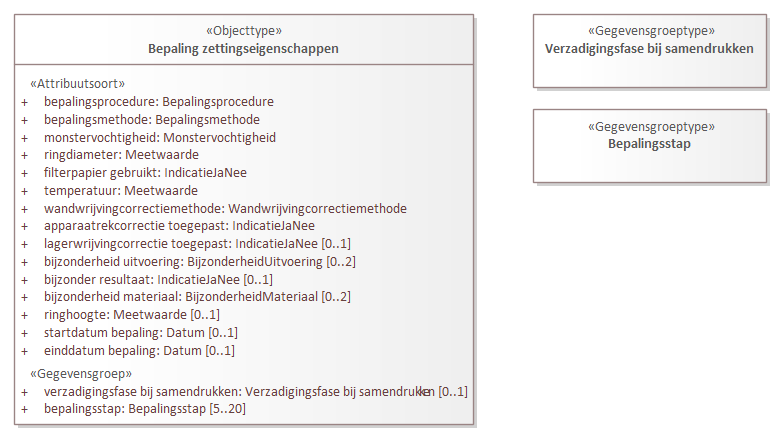
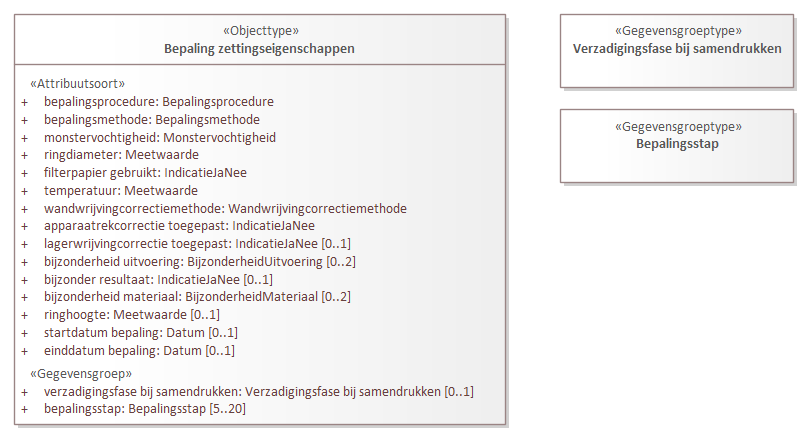
Conceptualmodel-GeotechnischbooronderzoekBHR-GT-2.2-1-20220901-20251028-200825

diff --git a/data/BHR-GT-cat.msword.html b/data/BHR-GT-cat.msword.html
@@ -6,7 +6,7 @@
                     table.list tbody tr th {background-color: #d3d3d3;}
                     table.list tbody tr th,
                     table.list tbody tr td {border: 1px solid black;}
-                </style></head><body><p>Conceptual model/Geotechnisch booronderzoek (BHR-GT)/20220901</p><p>Imvertor: 4.4.0</p><p>Model release: Conceptualmodel-GeotechnischbooronderzoekBHR-GT-2.2-1-20220901-20251028-192604</p><hr><section><h1>Artikel 1 Definitie van registratieobject, entiteiten en attributen</h1><section><h2>Registratieobject</h2><section id="global_class_Model_Registratieobject">
+                </style></head><body><p>Conceptual model/Geotechnisch booronderzoek (BHR-GT)/20220901</p><p>Imvertor: 4.4.0</p><p>Model release: Conceptualmodel-GeotechnischbooronderzoekBHR-GT-2.2-1-20220901-20251028-200825</p><hr><section><h1>Artikel 1 Definitie van registratieobject, entiteiten en attributen</h1><section><h2>Registratieobject</h2><section id="global_class_Model_Registratieobject">
                <table style="width: 100%;"><colgroup style="width: 30%;"></colgroup><colgroup style="width: 70%;"></colgroup><tbody><tr><th>Naam</th><td>Booronderzoek</td></tr><tr><th>Code</th><td>BHR</td></tr><tr><th>Definitie</th><td>
                         <p>Het geheel van gegevens dat betrekking heeft op een booronderzoek dat vanuit een bepaalde opdracht is uitgevoerd door op een bepaald moment op een bepaalde locatie in Nederland of zijn Exclusieve Economische Zone een boring uit te voeren en de monsters die daarmee uit de ondergrond zijn verkregen te beschrijven en/of te onderzoeken en/of in het boorgat zelf metingen aan de ondergrond uit te voeren.</p>
                      </td></tr><tr><th>Populatie</th><td>
@@ -2509,7 +2509,7 @@ Het attribuut mag niet aanwezig zijn in alle andere gevallen.</p>
                         </td></tr><tr><th>Toelichting</th><td>
                            <p>De zandmediaan wordt bepaald wanneer de primaire fractie zand is. Tenminste wordt een indeling van grof, middelgrof of fijn gemaakt, bij voorkeur worden de klassen middelgrof en fijn nauwkeuriger ingedeeld.</p>
                         </td></tr></tbody></table>
-               </section></section><section id="global_class_Model_Bepalingzettingseigenschappen"><h3>   Bepaling zettingseigenschappen</h3><div class="imageinfo "><img id="EAID_50F594D4_51DB_4eb9_9E29_7C12AB4AF960" src="Images/EAID_50F594D4_51DB_4eb9_9E29_7C12AB4AF960.png" usemap="#imagemap-EAID_50F594D4_51DB_4eb9_9E29_7C12AB4AF960" alt="Diagram: Bepaling zettingseigenschappen - detail"><map name="imagemap-EAID_50F594D4_51DB_4eb9_9E29_7C12AB4AF960"><area shape="rect" alt="Verzadigingsfase bij samendrukken" coords="533,14,767,88" href="#global_class_Model_Verzadigingsfasebijsamendrukken"><area shape="rect" alt="Bepalingsstap" coords="533,109,767,183" href="#global_class_Model_Bepalingsstap"><area shape="rect" alt="Bepaling zettingseigenschappen" coords="14,14,474,425" href="#global_class_Model_Bepalingzettingseigenschappen"></map></div><table style="width: 100%;"><colgroup style="width: 30%;"></colgroup><colgroup style="width: 70%;"></colgroup><tbody><tr><th>Type gegeven</th><td>Entiteit</td></tr><tr><th>Definitie</th><td>
+               </section></section><section id="global_class_Model_Bepalingzettingseigenschappen"><h3>   Bepaling zettingseigenschappen</h3><div class="imageinfo "><img id="EAID_50F594D4_51DB_4eb9_9E29_7C12AB4AF960" src="Images/EAID_50F594D4_51DB_4eb9_9E29_7C12AB4AF960.png" usemap="#imagemap-EAID_50F594D4_51DB_4eb9_9E29_7C12AB4AF960" alt="Diagram: Bepaling zettingseigenschappen - detail"><map name="imagemap-EAID_50F594D4_51DB_4eb9_9E29_7C12AB4AF960"><area shape="rect" alt="Verzadigingsfase bij samendrukken" coords="560,14,794,88" href="#global_class_Model_Verzadigingsfasebijsamendrukken"><area shape="rect" alt="Bepalingsstap" coords="560,109,794,183" href="#global_class_Model_Bepalingsstap"><area shape="rect" alt="Bepaling zettingseigenschappen" coords="14,14,506,425" href="#global_class_Model_Bepalingzettingseigenschappen"></map></div><table style="width: 100%;"><colgroup style="width: 30%;"></colgroup><colgroup style="width: 70%;"></colgroup><tbody><tr><th>Type gegeven</th><td>Entiteit</td></tr><tr><th>Definitie</th><td>
                         <p>Het volgens een bepaalde methode bepalen van de zettingseigenschappen van grond.</p>
                      </td></tr><tr><th>Regels</th><td>
                         <p>De entiteit moet aanwezig zijn wanneer de waarde van het attribuut <em>type analyse</em> van de entiteit <em>Onderzocht interval</em> gelijk is aan <em>zetting</em> of <em>zettingWaterdoorlatendheid</em>.<br clear="none">
@@ -2616,7 +2616,7 @@ Voor het juiste gebruik van de gegevens is het van belang te weten of het meetre
                         2.2</td></tr><tr><th>&nbsp;&nbsp;Eenheid</th><td>mm (millimeter)</td></tr><tr><th>&nbsp;&nbsp;Waardebereik</th><td> vanaf 0</td></tr><tr><th>Regels</th><td>
                            <p>Het attribuut moet aanwezig zijn wanneer de waarde van het attribuut <em>analyseprocedure</em> van de entiteit <em>Boormonsteranalyse</em> gelijk is aan <em>NEN8992v2025</em>.</p>
                         </td></tr><tr><th>Toelichting</th><td>
-                           <p>Bij belastinggestuurd samendrukken is de hoogte van het proefstuk gelijk aan de ringhoogte en die is ca. 20 mm. Bij snelheidgestuurd samendrukken wordt de hoogte van het proefstuk na afloop van de verzadigingsfase bepaald.</p>
+                           <p>Voor de ringhoogte wordt standaard een hoogte van 20 mm aangehouden met een marge van +/- 2 mm.</p>
                         </td></tr></tbody></table>
                </section><section id="detail_attribute_Model_Bepalingzettingseigenschappen_startdatumbepaling"><h4>  startdatum bepaling</h4>
                   <table style="width: 100%;"><colgroup style="width: 30%;"></colgroup><colgroup style="width: 70%;"></colgroup><tbody><tr><th>Type gegeven</th><td>Attribuut van Bepaling zettingseigenschappen</td></tr><tr><th>Definitie</th><td>

diff --git a/data/BHR-GT-cat.respec.html b/data/BHR-GT-cat.respec.html
@@ -2501,7 +2501,7 @@ Het attribuut mag niet aanwezig zijn in alle andere gevallen.</p>
                         </td></tr><tr><th>Toelichting</th><td>
                            <p>De zandmediaan wordt bepaald wanneer de primaire fractie zand is. Tenminste wordt een indeling van grof, middelgrof of fijn gemaakt, bij voorkeur worden de klassen middelgrof en fijn nauwkeuriger ingedeeld.</p>
                         </td></tr></tbody></table>
-               </section></section><section id="global_class_Model_Bepalingzettingseigenschappen"><h3>   Bepaling zettingseigenschappen</h3><div class="imageinfo "><img id="EAID_50F594D4_51DB_4eb9_9E29_7C12AB4AF960" src="data/Images/EAID_50F594D4_51DB_4eb9_9E29_7C12AB4AF960.png" usemap="#imagemap-EAID_50F594D4_51DB_4eb9_9E29_7C12AB4AF960" alt="Diagram: Bepaling zettingseigenschappen - detail"><map name="imagemap-EAID_50F594D4_51DB_4eb9_9E29_7C12AB4AF960"><area shape="rect" alt="Verzadigingsfase bij samendrukken" coords="533,14,767,88" href="#global_class_Model_Verzadigingsfasebijsamendrukken"><area shape="rect" alt="Bepalingsstap" coords="533,109,767,183" href="#global_class_Model_Bepalingsstap"><area shape="rect" alt="Bepaling zettingseigenschappen" coords="14,14,474,425" href="#global_class_Model_Bepalingzettingseigenschappen"></map></div><table style="width: 100%;"><colgroup style="width: 30%;"></colgroup><colgroup style="width: 70%;"></colgroup><tbody><tr><th>Type gegeven</th><td>Entiteit</td></tr><tr><th>Definitie</th><td>
+               </section></section><section id="global_class_Model_Bepalingzettingseigenschappen"><h3>   Bepaling zettingseigenschappen</h3><div class="imageinfo "><img id="EAID_50F594D4_51DB_4eb9_9E29_7C12AB4AF960" src="data/Images/EAID_50F594D4_51DB_4eb9_9E29_7C12AB4AF960.png" usemap="#imagemap-EAID_50F594D4_51DB_4eb9_9E29_7C12AB4AF960" alt="Diagram: Bepaling zettingseigenschappen - detail"><map name="imagemap-EAID_50F594D4_51DB_4eb9_9E29_7C12AB4AF960"><area shape="rect" alt="Verzadigingsfase bij samendrukken" coords="560,14,794,88" href="#global_class_Model_Verzadigingsfasebijsamendrukken"><area shape="rect" alt="Bepalingsstap" coords="560,109,794,183" href="#global_class_Model_Bepalingsstap"><area shape="rect" alt="Bepaling zettingseigenschappen" coords="14,14,506,425" href="#global_class_Model_Bepalingzettingseigenschappen"></map></div><table style="width: 100%;"><colgroup style="width: 30%;"></colgroup><colgroup style="width: 70%;"></colgroup><tbody><tr><th>Type gegeven</th><td>Entiteit</td></tr><tr><th>Definitie</th><td>
                         <p>Het volgens een bepaalde methode bepalen van de zettingseigenschappen van grond.</p>
                      </td></tr><tr><th>Regels</th><td>
                         <p>De entiteit moet aanwezig zijn wanneer de waarde van het attribuut <em>type analyse</em> van de entiteit <em>Onderzocht interval</em> gelijk is aan <em>zetting</em> of <em>zettingWaterdoorlatendheid</em>.<br clear="none">
@@ -2608,7 +2608,7 @@ Voor het juiste gebruik van de gegevens is het van belang te weten of het meetre
                         2.2</td></tr><tr><th>&nbsp;&nbsp;Eenheid</th><td>mm (millimeter)</td></tr><tr><th>&nbsp;&nbsp;Waardebereik</th><td> vanaf 0</td></tr><tr><th>Regels</th><td>
                            <p>Het attribuut moet aanwezig zijn wanneer de waarde van het attribuut <em>analyseprocedure</em> van de entiteit <em>Boormonsteranalyse</em> gelijk is aan <em>NEN8992v2025</em>.</p>
                         </td></tr><tr><th>Toelichting</th><td>
-                           <p>Bij belastinggestuurd samendrukken is de hoogte van het proefstuk gelijk aan de ringhoogte en die is ca. 20 mm. Bij snelheidgestuurd samendrukken wordt de hoogte van het proefstuk na afloop van de verzadigingsfase bepaald.</p>
+                           <p>Voor de ringhoogte wordt standaard een hoogte van 20 mm aangehouden met een marge van +/- 2 mm.</p>
                         </td></tr></tbody></table>
                </section><section id="detail_attribute_Model_Bepalingzettingseigenschappen_startdatumbepaling"><h4>  startdatum bepaling</h4>
                   <table style="width: 100%;"><colgroup style="width: 30%;"></colgroup><colgroup style="width: 70%;"></colgroup><tbody><tr><th>Type gegeven</th><td>Attribuut van Bepaling zettingseigenschappen</td></tr><tr><th>Definitie</th><td>
